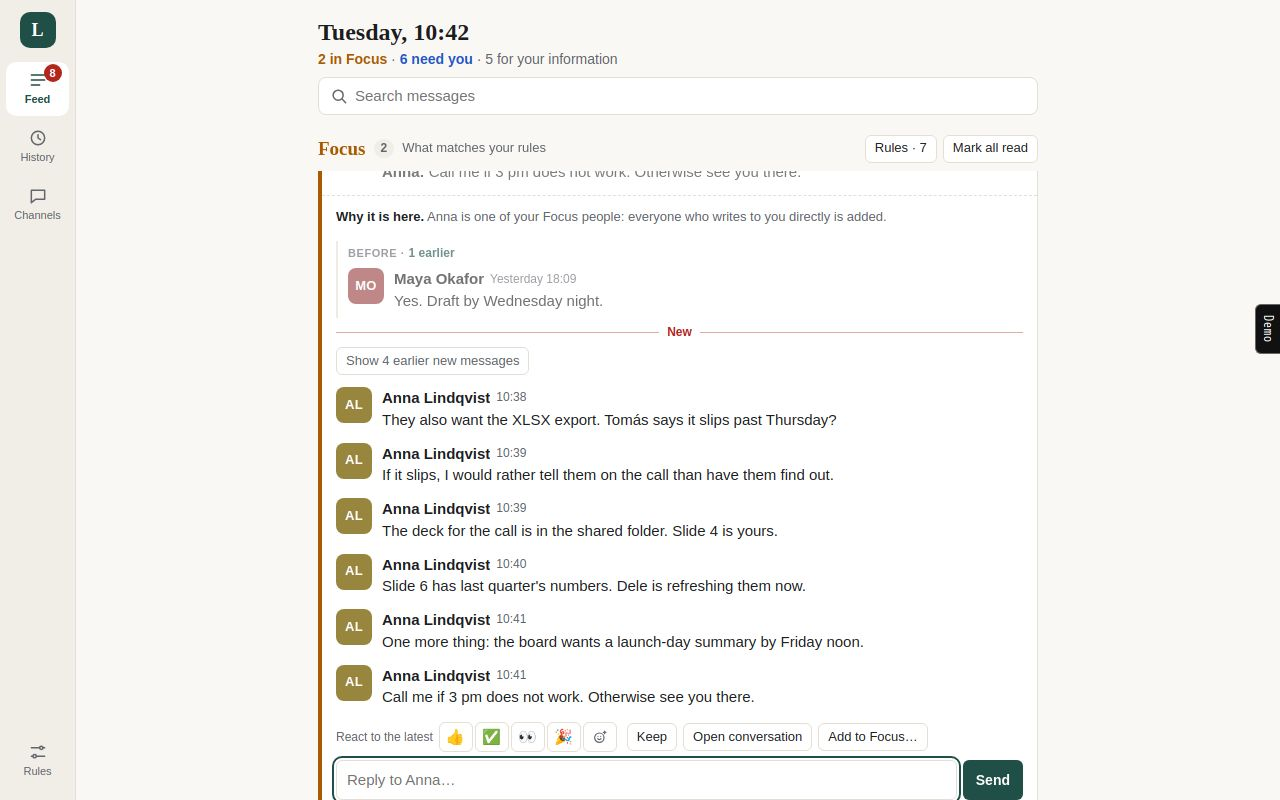
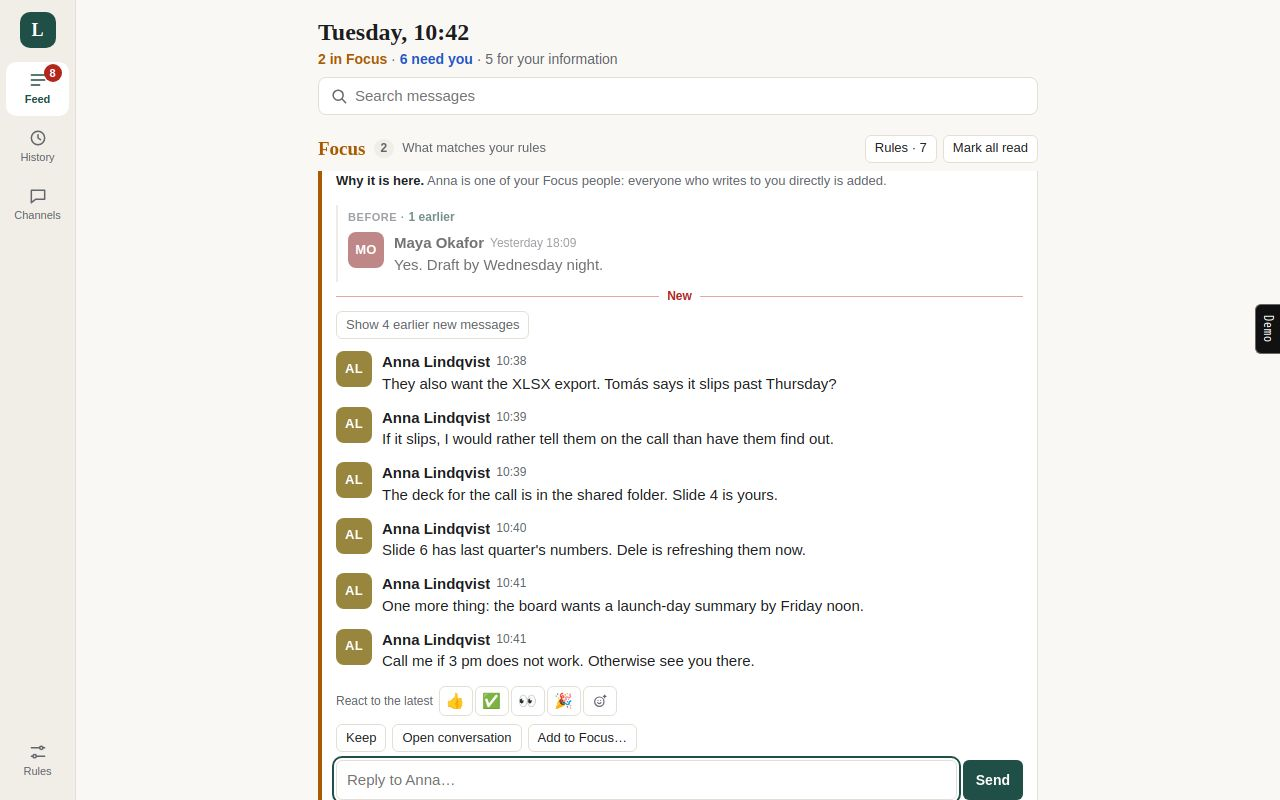
test: reactions and buttons on separate lines in an opened row (E-002, T-025)
Verified: run.sh passes 484 checks; looked at rendered on desktop.

Changed region(s): [[0.25, 0.2188, 0.7188, 0.9375], [0.5, 0.4062, 0.5312, 0.4375], [0.5, 0.3438, 0.5312, 0.375]]

diff --git a/experiments/E-002-look-and-feel/own.html b/experiments/E-002-look-and-feel/own.html
@@ -301,6 +301,8 @@ button.rx:hover{border-color:var(--accent)}
 .rx-pick:hover{background:var(--accent-soft);color:var(--accent)}
 @media (hover:none),(max-width:760px){.msg-tools .rx-btn{display:none}.msg-tools{border-color:transparent;background:none;box-shadow:none}.msg-tools .rx-pick{border:0;width:34px;height:30px}.row-btns .rx-pick{width:38px;height:34px}
   .picker{left:0 !important;right:0;top:auto !important;bottom:0;width:auto;max-height:62dvh;border-radius:16px 16px 0 0}.pk-grid button{height:42px;font-size:24px}}
+/* reactions on their own line, buttons on the next */
+.acts .quick{flex:0 0 100%;margin:0 0 2px}
 
 /* The agent's own: a calm page. The reason leads every row, and a row's size says how much attention it asks for. */
 :root{--bg:#faf8f4;--panel:#fff;--panel2:#f1eee7;--line:#e4dfd4;--hover:#f3f0e9;--accent:#1f4f46;--accent-soft:#e1ece9;--serif:ui-serif,Georgia,"Times New Roman",serif}

diff --git a/experiments/E-002-look-and-feel/slack-like.html b/experiments/E-002-look-and-feel/slack-like.html
@@ -301,6 +301,8 @@ button.rx:hover{border-color:var(--accent)}
 .rx-pick:hover{background:var(--accent-soft);color:var(--accent)}
 @media (hover:none),(max-width:760px){.msg-tools .rx-btn{display:none}.msg-tools{border-color:transparent;background:none;box-shadow:none}.msg-tools .rx-pick{border:0;width:34px;height:30px}.row-btns .rx-pick{width:38px;height:34px}
   .picker{left:0 !important;right:0;top:auto !important;bottom:0;width:auto;max-height:62dvh;border-radius:16px 16px 0 0}.pk-grid button{height:42px;font-size:24px}}
+/* reactions on their own line, buttons on the next */
+.acts .quick{flex:0 0 100%;margin:0 0 2px}
 
 /* Slack-like: dark sidebar, dense rows, square avatars, flat messages. Own colours, no borrowed marks. */
 :root{--accent:#0f6e64;--side:#1d2b2a;--side-text:#cfdcda;--side-hover:#2a3d3b}

diff --git a/experiments/E-002-look-and-feel/telegram-like.html b/experiments/E-002-look-and-feel/telegram-like.html
@@ -301,6 +301,8 @@ button.rx:hover{border-color:var(--accent)}
 .rx-pick:hover{background:var(--accent-soft);color:var(--accent)}
 @media (hover:none),(max-width:760px){.msg-tools .rx-btn{display:none}.msg-tools{border-color:transparent;background:none;box-shadow:none}.msg-tools .rx-pick{border:0;width:34px;height:30px}.row-btns .rx-pick{width:38px;height:34px}
   .picker{left:0 !important;right:0;top:auto !important;bottom:0;width:auto;max-height:62dvh;border-radius:16px 16px 0 0}.pk-grid button{height:42px;font-size:24px}}
+/* reactions on their own line, buttons on the next */
+.acts .quick{flex:0 0 100%;margin:0 0 2px}
 
 /* Telegram-like: one list, round avatars, big targets, folders for buckets, bubbles. Own colours. */
 :root{--accent:#6a4fd0;--accent-soft:#ebe6fb;--r:14px;--wall:#eeebe4}

diff --git a/experiments/E-002-look-and-feel/src/core.css b/experiments/E-002-look-and-feel/src/core.css
@@ -293,3 +293,5 @@ button.rx:hover{border-color:var(--accent)}
 .rx-pick:hover{background:var(--accent-soft);color:var(--accent)}
 @media (hover:none),(max-width:760px){.msg-tools .rx-btn{display:none}.msg-tools{border-color:transparent;background:none;box-shadow:none}.msg-tools .rx-pick{border:0;width:34px;height:30px}.row-btns .rx-pick{width:38px;height:34px}
   .picker{left:0 !important;right:0;top:auto !important;bottom:0;width:auto;max-height:62dvh;border-radius:16px 16px 0 0}.pk-grid button{height:42px;font-size:24px}}
+/* reactions on their own line, buttons on the next */
+.acts .quick{flex:0 0 100%;margin:0 0 2px}
